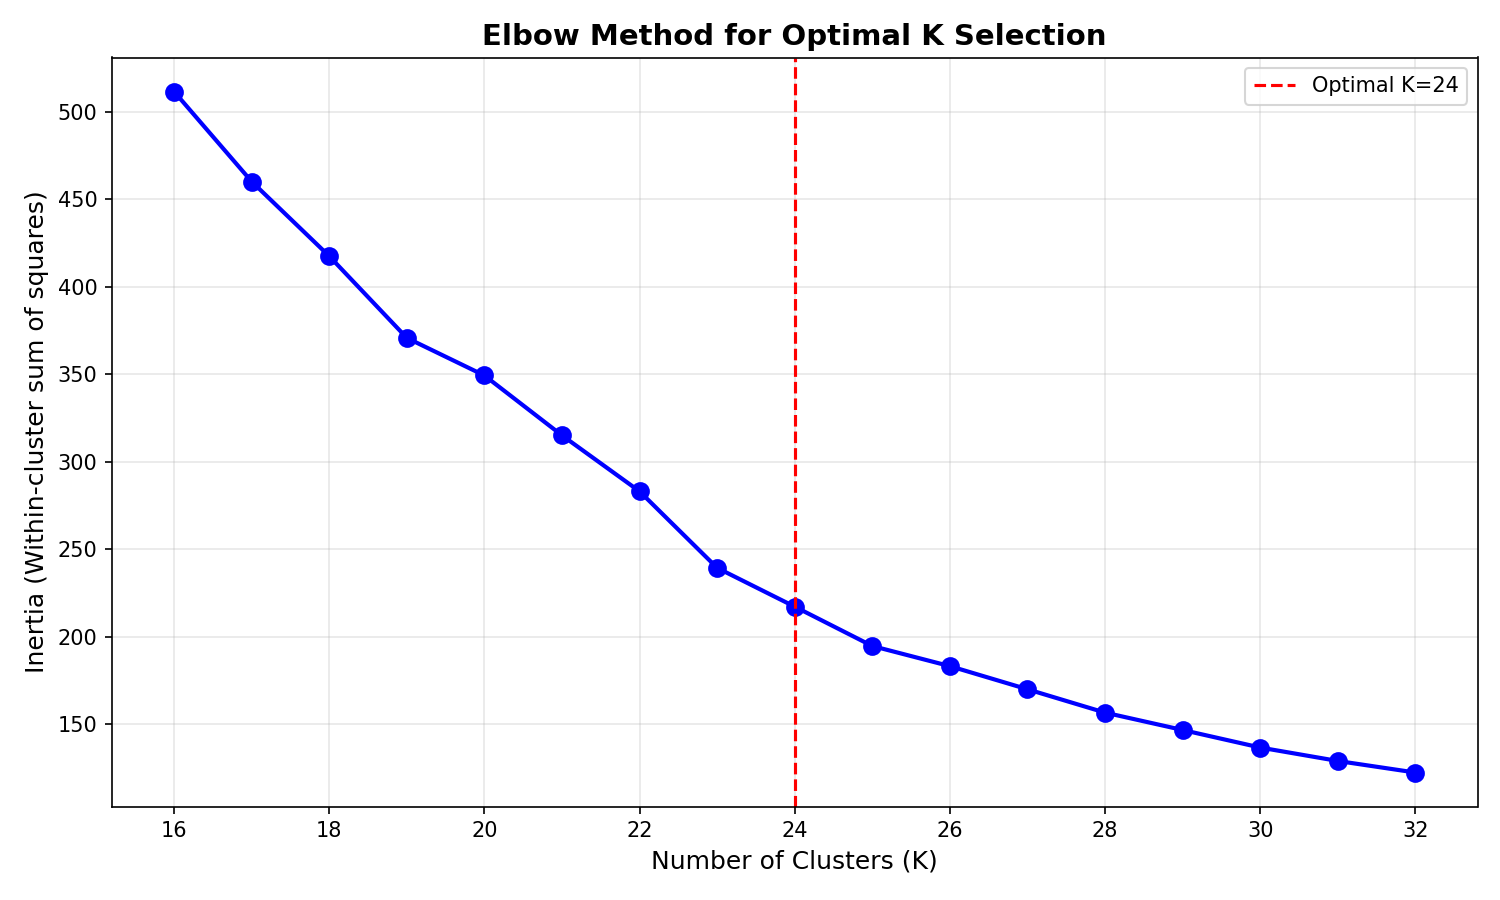
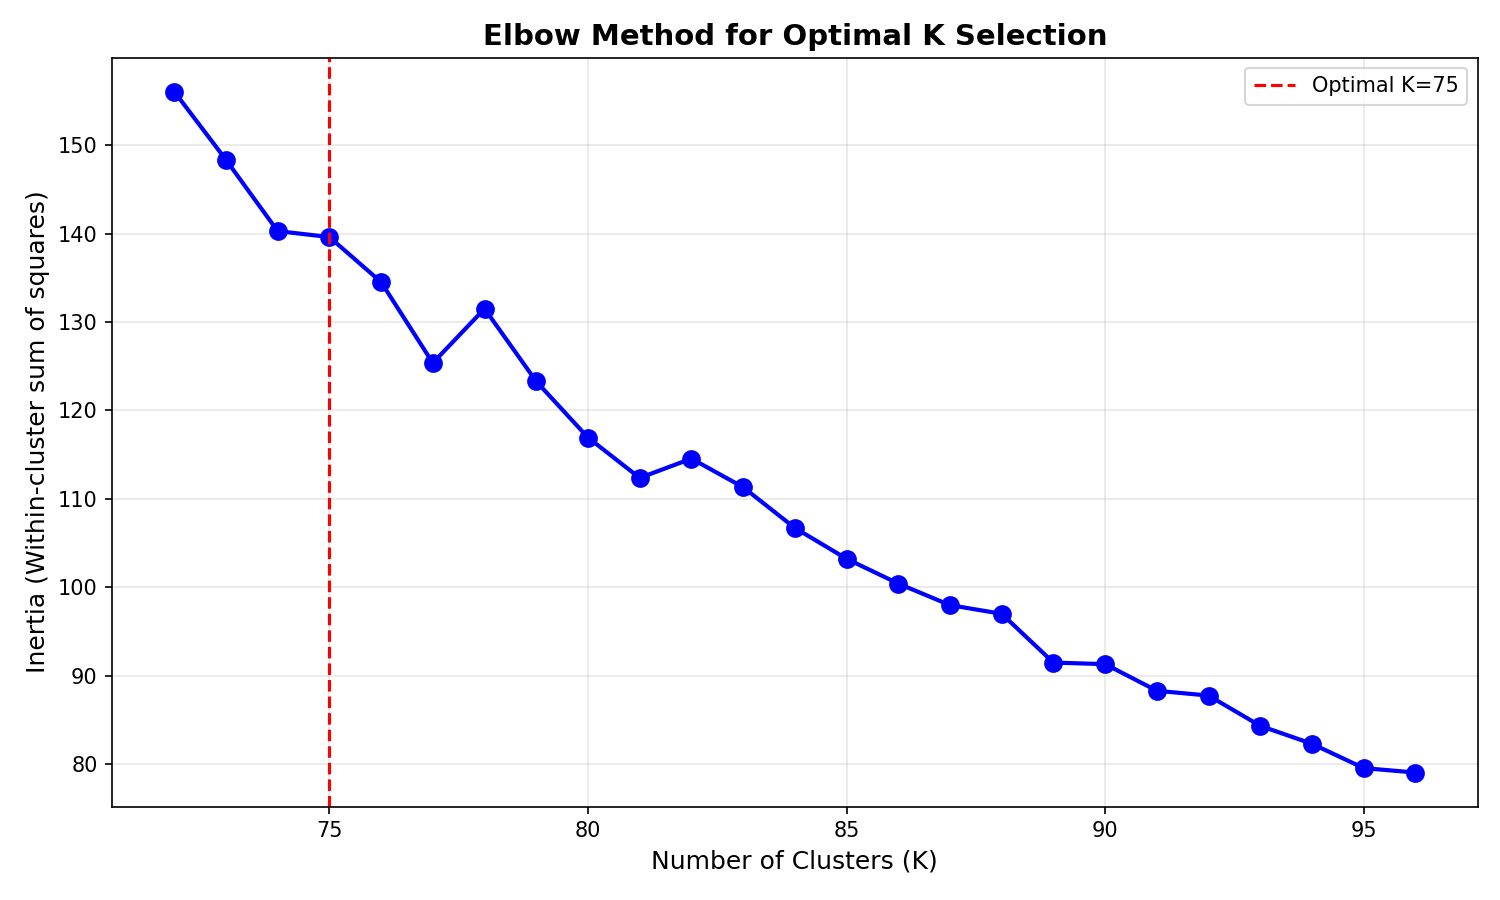
improve cluster shape

diff --git a/cluster_earthquakes.py b/cluster_earthquakes.py
@@ -23,9 +23,9 @@ from scipy.spatial import ConvexHull
 DATA_PATH = './dataset/katalog_gempa_v2_cleaned.tsv'
 OUTPUT_MAP = 'cluster_map.png'
 ELBOW_PLOT = 'elbow_plot.png'
-SAMPLE_RATE = 2  # Every 2nd row
-K_MIN = 16
-K_MAX = 32
+SAMPLE_RATE = 1  # Every 2nd row
+K_MIN = 72
+K_MAX = 96
 RANDOM_STATE = 42
 
 # Map extent (Indonesia bounding box)
@@ -34,7 +34,7 @@ LAT_MIN, LAT_MAX = -12, 6
 
 # Magnitude and depth thresholds - earthquakes must meet these to be included
 MAG_THRESHOLD = 5.0   # Minimum magnitude
-DEPTH_THRESHOLD = 75.0  # Maximum depth (km) - shallow earthquakes only
+DEPTH_THRESHOLD = 50.0  # Maximum depth (km) - shallow earthquakes only
 
 # Scatter filtering - point must have at least one neighbor within this distance (degrees)
 # ~1 degree ≈ 111km at equator, so 0.3 = ~33km radius
@@ -57,29 +57,27 @@ def log(msg):
 def detect_elbow(inertias):
     """
     Find the elbow point in inertia values.
-    Uses percentage decrease to bias toward more clusters.
+    Modified to bias toward higher K (more clusters).
     """
     inertias = np.array(inertias)
     n = len(inertias)
 
-    # Find first point where relative decrease becomes small (< 5% improvement)
-    # This biases toward higher K (more clusters)
-    threshold = 0.05  # 5% relative decrease threshold
+    # Bias toward higher K by using a very low threshold
+    # This means we go further into the range before stopping
+    threshold = 0.02  # 2% - very low to get more clusters
 
     for i in range(1, n - 1):
-        # Calculate relative decrease
         relative_decrease = (inertias[i - 1] - inertias[i]) / inertias[i - 1]
 
         if relative_decrease < threshold:
-            # Found the elbow - return this K
-            best_k = i + K_MIN  # Adjust for range offset
+            best_k = i + K_MIN
             log(f"Elbow detection: relative decrease at K={i+K_MIN} is {relative_decrease:.1%} < {threshold:.1%}")
             log(f"Elbow detection: best K = {best_k}")
             return best_k
 
-    # If no clear elbow, return the middle of the range
-    best_k = (K_MIN + K_MAX) // 2
-    log(f"Elbow detection: no clear elbow found, using middle K = {best_k}")
+    # If no clear elbow found, return higher end of range
+    best_k = K_MAX - 2  # Near the top of the range
+    log(f"Elbow detection: no clear elbow, using near-max K = {best_k}")
     return best_k
 
 